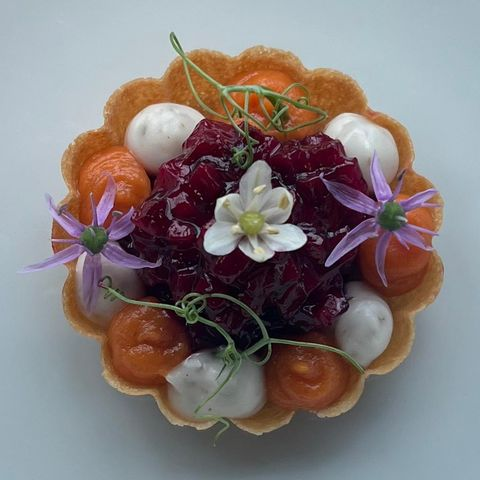
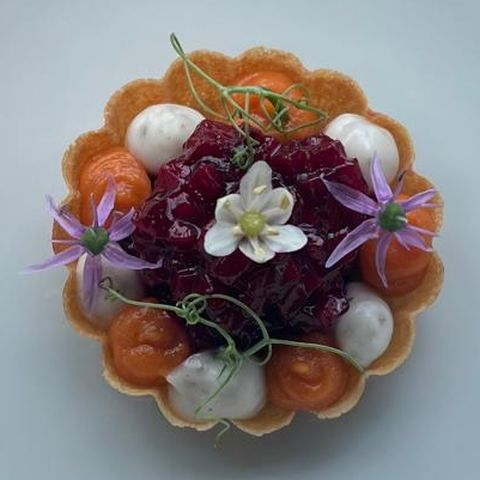
fix ima

diff --git a/bar.html b/bar.html
@@ -109,6 +109,12 @@
         <img src="images/team-cocktail-glasses-duo.jpg" alt="Alejandro and a bartender preparing champagne glasses" loading="lazy" decoding="async">
       </div>
       <div class="split-media reveal-wipe" style="aspect-ratio:3/4;">
+        <img src="images/bar-skyline-cocktails.jpg" alt="Two cocktails on a table with a London skyline view" loading="lazy" decoding="async">
+      </div>
+      <div class="split-media reveal-wipe" style="aspect-ratio:3/4;">
+        <img src="images/bar-garnish-closeup.jpg" alt="Cocktail with fresh herb garnish and crushed ice" loading="lazy" decoding="async">
+      </div>
+      <div class="split-media reveal-wipe" style="aspect-ratio:3/4;">
         <img src="images/bar-garnish-tray.jpg" alt="Bar garnish tray with fresh fruit and herbs, ready for cocktail service" loading="lazy" decoding="async">
       </div>
       <div class="split-media reveal-wipe" style="aspect-ratio:3/4;">
